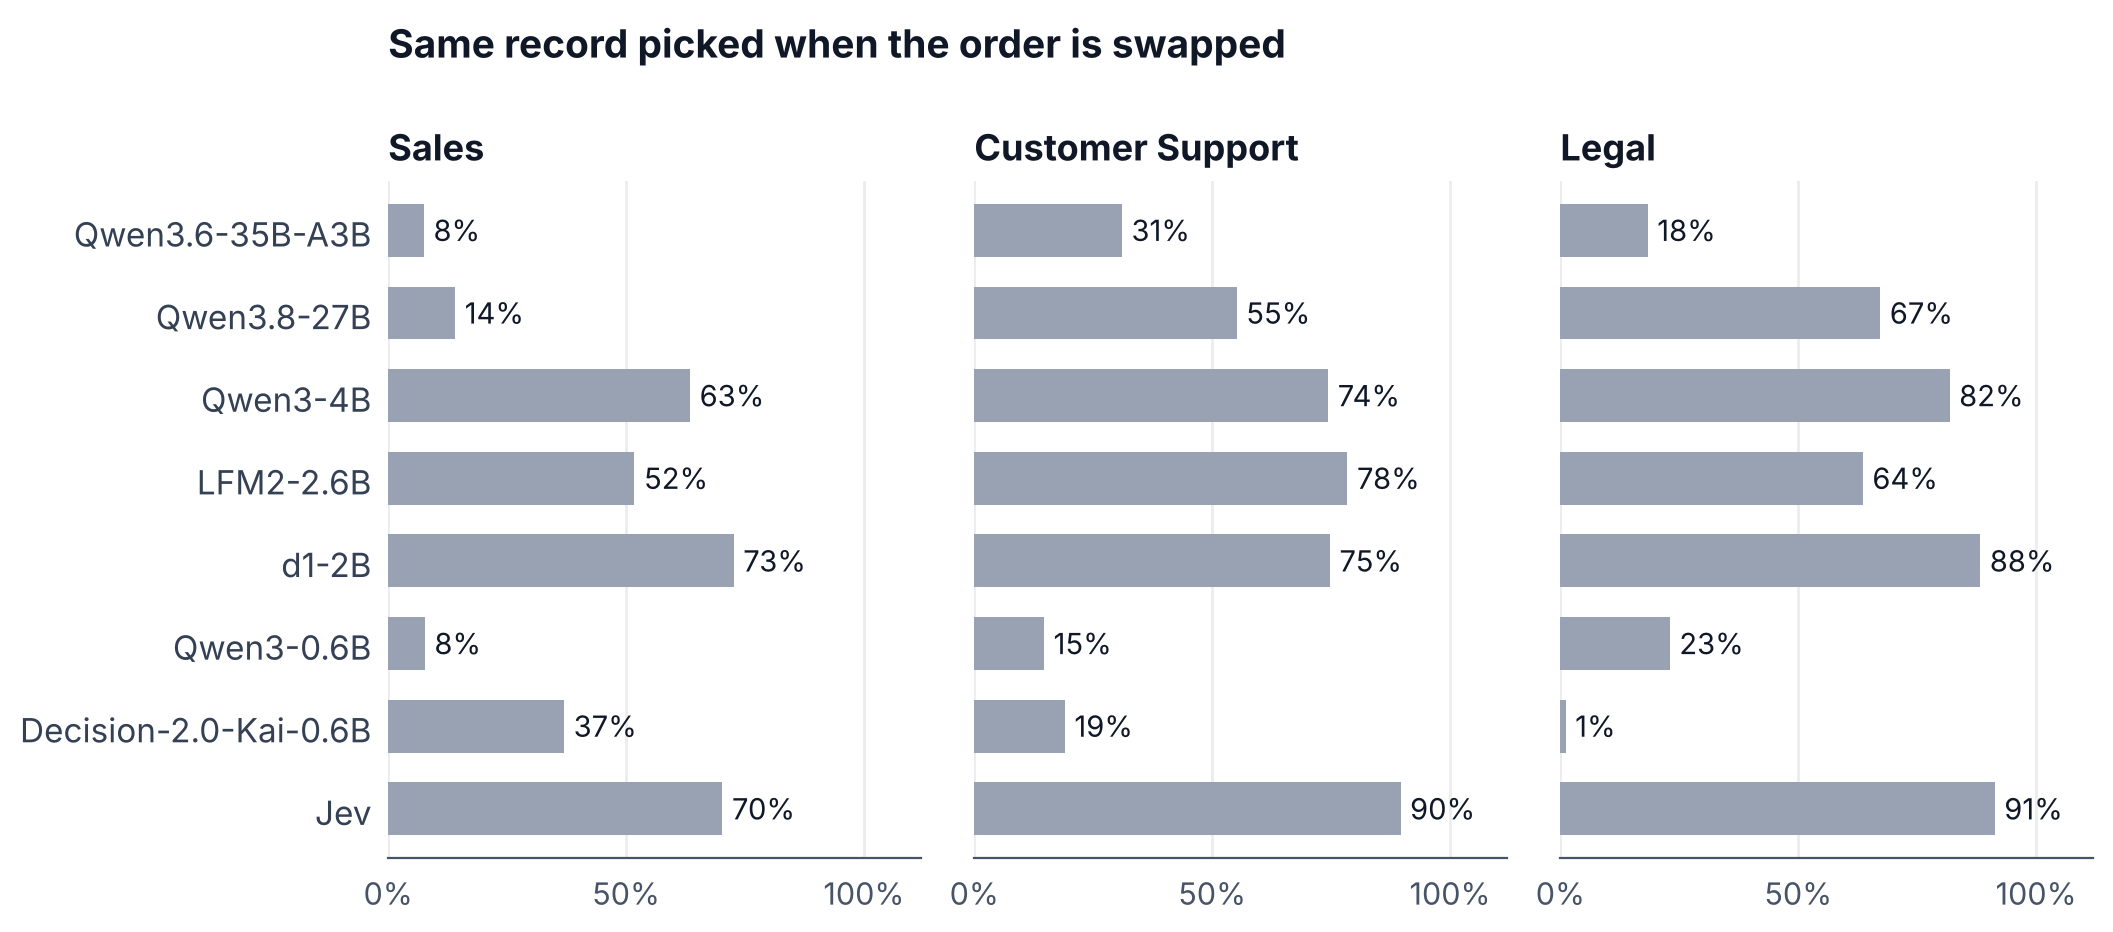
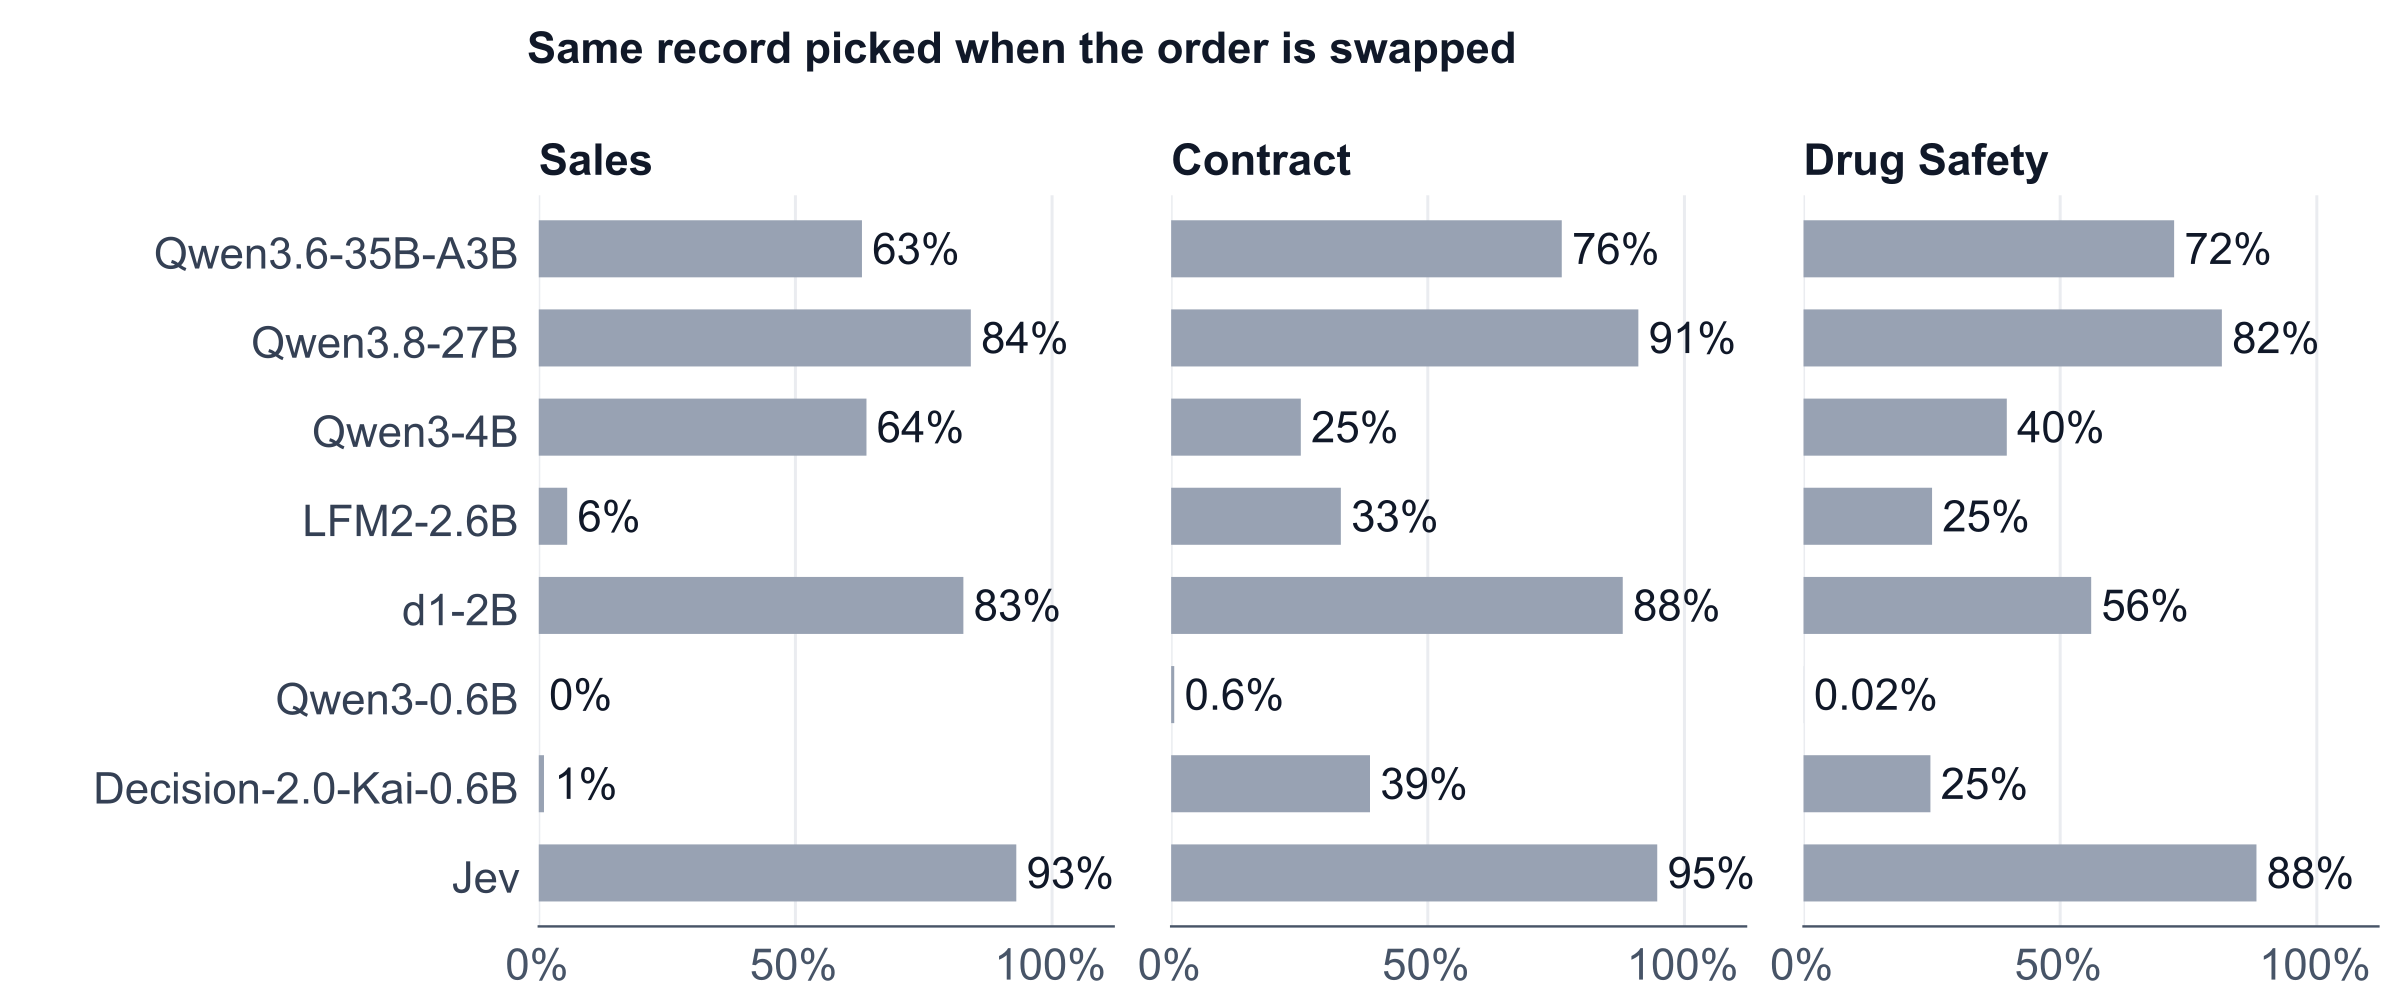
regenerate figure 2 with new prompts and tasks

diff --git a/_posts/2026-11-11-ai-rank.md b/_posts/2026-11-11-ai-rank.md
@@ -5,7 +5,7 @@ authors:
   - jianhong-shi
   - shreya-shankar
 title: "Why We Aren’t Adding a Dedicated Semantic Top-k Operator to Quail"
-unlisted: true
+unlisted: false
 sitemap: false
 ---
 
@@ -44,7 +44,14 @@ A *reranker* runs a model with both the question and a record in the prompt to p
 
 <aside class="review-note" style="margin: 1.25rem 0; padding: 0.85rem 1rem; border-radius: 6px; background: #edf3fc; color: #183b68; font-size: 0.9rem; line-height: 1.6;" aria-label="Comment from Shreya"><strong style="color: inherit;">Shreya:</strong> Can we include a clearer explanation of how LOTUS uses Quickselect to find the top k, perhaps with a small example?</aside>
 
-Another approach to implement semantic top-k is using pairwise LLM comparisons and a quick-select top-k algorithm, the approach used in the LOTUS paper. More specifically, the algorithm selects a pivot record, compares it with other records, and repeatedly removes records that cannot be in the top k.
+Another approach to implement semantic top-k is using pairwise LLM comparisons and a Quickselect top-k algorithm, the approach used in the LOTUS paper. More specifically, the algorithm randomly selects a pivot record, compares it with other records, and repeatedly removes records that cannot be in the top k.
+
+For example, suppose we want the two largest values in [4, 1, 6, 5, 3, 2].
+1. Randomly select 3 as the pivot. Since 4, 6, and 5 all rank above 3, the top two must be among those three values. The algorithm removes 1, 3, and 2.
+2. Randomly select 6 from [4, 6, 5]. It beats both 4 and 5, so 6 takes first place.
+3. Randomly select 4 from [4, 5]. Since 5 beats 4, it takes second place. The result is [6, 5].
+
+For semantic top-k, the same procedure compares records by asking the LLM which of the two better meets the ranking criterion.
 
 We wanted to use pairwise comparison for Quail's semantic top-k since it is conventionally considered better at accuracy. LOTUS[^1] reported that its pairwise-based top-k outperformed scoring each record independently on SciFact[^scifact] (0.765 vs. 0.457 nDCG@10) and HellaSwag-bench[^hellaswag] (0.919 vs. 0.091). Qin et al.[^2] also found that pairwise comparison outperforms scoring each record independently by more than 10% on average nDCG@10.
 
@@ -79,15 +86,15 @@ LIMIT 25
 
 We compared four methods on three business-relevant semantic top-k tasks:
 
-- Sales: ranking sales calls by how close customers are to committing to a purchase
-- Contract: ranking contracts by how clearly they restrict competition or require exclusive dealing
-- Drug Safety: ranking biomedical articles by how clearly they document drug side effects, such as nausea or vomiting
+- Sales: ranking 346 sales calls (avg. 1,155 tokens) by how close customers are to committing to a purchase 
+- Contract: ranking 449 contracts (avg. 7,486 tokens) by how clearly they restrict competition or require exclusive dealing
+- Drug Safety: ranking 500 biomedical articles (avg. 4,066 tokens) by how clearly they document drug side effects, such as nausea or vomiting
 
 All four methods use models with 4 billion parameters. **Pointwise** and **Pairwise** use Qwen3-4B for independent scoring and pairwise comparison, respectively. **Reranker** uses Qwen3-Reranker-4B to score each record independently, and **Retrieval** uses Qwen3-Embedding-4B for embedding-based retrieval.
 
 <figure id="figure-1" style="width: min(48rem, calc(100vw - 3rem)); overflow-x: auto;">
 <img style="width: 48rem; max-width: none;" src="{{ '/assets/blog/ai-rank/figure.svg' | relative_url }}?v=4" alt="Accuracy against cost per query on Sales, Contract, and Drug Safety. Pointwise is cheaper than pairwise on every task and at least as accurate.">
-<figcaption>Figure 1. Accuracy against cost per query on three tasks. Pointwise and pairwise use Qwen3-4B; the reranker is Qwen3-Reranker-4B, and retrieval uses Qwen3-Embedding-4B. Cost is query time on an H100 at $3.95 per hour.</figcaption>
+<figcaption>Figure 1. Accuracy against cost per query on three tasks. Pointwise and pairwise use Qwen3-4B; the reranker is Qwen3-Reranker-4B, and retrieval uses Qwen3-Embedding-4B. Accuracy is Precision@25, and cost is query time on an H100 at $3.95 per hour.</figcaption>
 </figure>
 
 **To our surprise, pointwise scoring achieves higher accuracy than pairwise comparison on all three tasks, while running 8.2x faster per task (geometric mean).**
@@ -108,12 +115,12 @@ We observed the following two types of inconsistent comparisons during experimen
 
 **The order of the two records in the prompt changes the answer.** Swapping the order of two records in the prompt can change which record the model prefers. We tested eight models of different sizes and types: Qwen3 models from 0.6B to 27B (plus Qwen3.6-35B-A3B, a mixture-of-experts model), LFM2-2.6B, two decision models (d1-2B and Decision-2.0-Kai-0.6B), and the Jev API.
 
-Figure 2 shows, for each model, the fraction of pairs where the model picked the same record in both orders. Ideally, the fraction is 100%. Larger models were not consistently better: on Sales, Qwen3.8-27B picked the same record in both orders for only 14% of pairs, compared with 63% for Qwen3-4B. Specialized decision models such as Jev and d1-2B were more consistent on Sales, but still exhibited position bias: they picked the same record in only 70% and 73% of pairs, respectively.[^6]
+Figure 2 shows, for each model, the fraction of pairs where the model picked the same record in both orders. Ideally, the fraction is 100%. Among the dense Qwen models, larger models were more consistent than smaller ones on every task. Specialized decision models such as Jev and d1-2B's consistency were comparable to largest LLMs, but still exhibited position bias: they picked the same record in only 88% and 56% of pairs on Drug Safety, respectively.[^6]
 
 <aside class="review-note" style="margin: 1.25rem 0; padding: 0.85rem 1rem; border-radius: 6px; background: #edf3fc; color: #183b68; font-size: 0.9rem; line-height: 1.6;" aria-label="Comment from Shreya"><strong style="color: inherit;">Shreya:</strong> Can we rerun the experiments and regenerate Figure 2 with your new prompts and tasks?</aside>
 
 <figure id="figure-2" style="width: min(48rem, calc(100vw - 3rem)); overflow-x: auto;">
-<img style="width: 48rem; max-width: none;" src="{{ '/assets/blog/ai-rank/position-bias.svg' | relative_url }}?v=3" alt="For eight models on Sales, Customer Support, and Legal, the fraction of pairs where the model picks the same record after the order is swapped. Values range from 1% to 91%.">
+<img style="width: 48rem; max-width: none;" src="{{ '/assets/blog/ai-rank/position-bias.svg' | relative_url }}?v=3" alt="For eight models on Sales, Contract, and Drug Safety, the fraction of pairs where the model picks the same record after the order is swapped. Values range from 0% to 95%.">
 <figcaption>Figure 2. How often each model picks the same record after we swap the order of the two records in the prompt. Higher is better; 100% means the order never changes the answer.</figcaption>
 </figure>
 
@@ -140,7 +147,7 @@ We thank [Modal](https://modal.com/) for sponsoring the compute used in this res
 [^3]: Emilia Lenzi, Davide Martinenghi, Paolo Papotti, and Marco Riva. [SERA: Evaluating LLM-based SEmantic RAnking over Structured Tables](https://doi.org/10.1145/3799682.3841009). In *Proceedings of the ACM International Conference on Information and Knowledge Management (CIKM)*, 2026.
 [^4]: A comparison could also report how strongly one record is preferred. Here, as in LOTUS, each comparison returns only a winner.
 [^5]: We also observed that accuracy can be very susceptible to prompt variation, though we expect these to happen less as models get better.
-[^6]: We used the LOTUS pairwise prompt. On Sales, we compared all 25,200 pairs of the 225 calls in the query above. On Customer Support and Legal, we compared 5,000 random pairs each.
+[^6]: We used the LOTUS pairwise prompt. On Sales, we compared all 59,685 pairs of the 346 calls. On Contract and Drug Safety, we compared 5,000 random pairs each selected from those that fit the 8,192-token window of Decision-2.0-Kai-0.6B.
 
 [^scifact]: David Wadden et al. [Fact or Fiction: Verifying Scientific Claims](https://aclanthology.org/2020.emnlp-main.609/). In *EMNLP*, 2020.
 [^hellaswag]: Rowan Zellers et al. [HellaSwag: Can a Machine Really Finish Your Sentence?](https://aclanthology.org/P19-1472/). In *ACL*, 2019.
